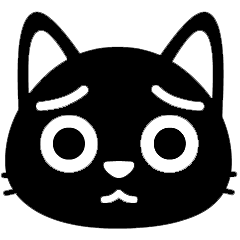
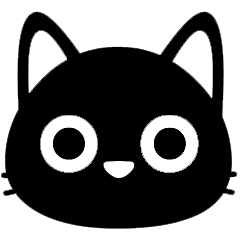
CorreçãodoHome

Changed region(s): [[0.6125, 0.35, 0.875, 0.4667], [0.1458, 0.35, 0.3792, 0.4667], [0.4083, 0.7875, 0.5833, 0.8458]]

diff --git a/app/app/templates/home/index.html b/app/app/templates/home/index.html
@@ -6,43 +6,36 @@
 {% block content %}
 <div class="app-wrapper">
 
-    <!-- Barra Lateral -->
-    <nav class="sidebar">
-        <a href="#" class="sidebar-btn active">
-			<img src="/static/icones/Clientes.png" alt="Clientes">
-            CLIENTES
-        </a>
-        <a href="/produtos" class="sidebar-btn">
-            <img src="/static/icones/Produto.png" alt="Produtos">
-            PRODUTOS/ ESTOQUE
-        </a>
-        <div class="sidebar-spacer"></div>
-        <a href="#" class="sidebar-btn">
-            <img src="/static/icones/Login.png" alt="Perfil">
-            PERFIL
-        </a>
-    </nav>
-
     <!-- Área principal -->
     <div class="main-area">
 
         <!-- Topbar -->
         <header class="topbar">
             <a href="#" class="topbar-btn">
+                <img src="/static/icones/Clientes.png" alt="Clientes">
+                CLIENTES
+            </a>
+            <a href="#" class="topbar-btn">
                 <img src="/static/icones/Adicionar.png" alt="Cadastrar Cliente">
                 CADASTRAR CLIENTE
             </a>
             <a href="#" class="topbar-btn">
-                <img src="/static/icones/ProcurarProduto.png" alt="Pesquisar Produto">
-                PESQUISAR PRODUTO
+                <img src="/static/icones/Produto.png" alt="Estoque">
+                ESTOQUE
             </a>	
+        <div class="topbar-spacer"></div> <!-- Cria espaço para perfil ficar na direita -->
+            <a href="#" class="topbar-btn">
+                <img src="/static/icones/Login.png" alt="Perfil">
+                PERFIL
+            </a>
         </header>
 
-	<main class="page-content home-empty">
-		<div class="empty-state">
-			<p class="empty-title">Nenhuma Operação<br>em Andamento</p>
-		</div>
-	</main>
+<main class="page-content home-empty">
+    <div class="empty-state">
+        <img src="/static/icones/Gato.png" alt="Nenhuma operação">
+        <p class="empty-title">Nenhuma Operação<br>em Andamento</p>
+    </div>
+</main>
 
     </div>
 </div>

diff --git a/app/app/static/base_template.css b/app/app/static/base_template.css
@@ -71,11 +71,10 @@ body {
     box-shadow: 0 2px 8px rgba(0,0,0,0.15);
 }
 
-.sidebar-btn svg,
 .sidebar-btn img {
-    width: 32px;
-    height: 32px;
-}
+    width: 36px;
+    height: 36px;
+    object-fit: contain;}
 
 .sidebar-spacer {
     flex: 1;
@@ -92,7 +91,7 @@ body {
 
 /* Menu Superior */
 .topbar {
-    height: 68px;
+    height: 75px;
     background-color: #f0b800;
     border-bottom: 2px solid #d9a800;
     display: flex;
@@ -108,15 +107,15 @@ body {
     flex-direction: column;
     align-items: center;
     justify-content: center;
-    width: 68px;
-    height: 52px;
+    width: 70px;
+    height: 70px;
     background-color: #fff8dc;
     border: 2px solid #c9a000;
     border-radius: 10px;
     cursor: pointer;
     text-decoration: none;
     color: #3a2a00;
-    font-size: 9px;
+    font-size: 10px;
     font-weight: 700;
     text-align: center;
     gap: 3px;
@@ -126,13 +125,14 @@ body {
 }
 
 .topbar-btn:hover {
-    background-color: #ffe680;
+    background-color: #ffea97;
     box-shadow: 0 2px 8px rgba(0,0,0,0.13);
 }
 
-.topbar-btn svg {
-    width: 26px;
-    height: 26px;
+.topbar-btn img {
+    width: 40px;
+    height: 40px;
+    object-fit: contain;
 }
 
 /* Miolo da Página*/
@@ -166,9 +166,20 @@ body {
 }
 
 .empty-title {
-    font-size: 22px;
+    font-size: 40px;
     font-weight: 600;
     color: #3a2a00;
     text-align: center;
     line-height: 1.5;
+}
+
+.topbar-spacer {
+    flex: 1;
+}
+
+/*Gatinho*/
+.empty-state img {
+    width: 300px;
+    height: 300px;
+    object-fit: contain;
 }
